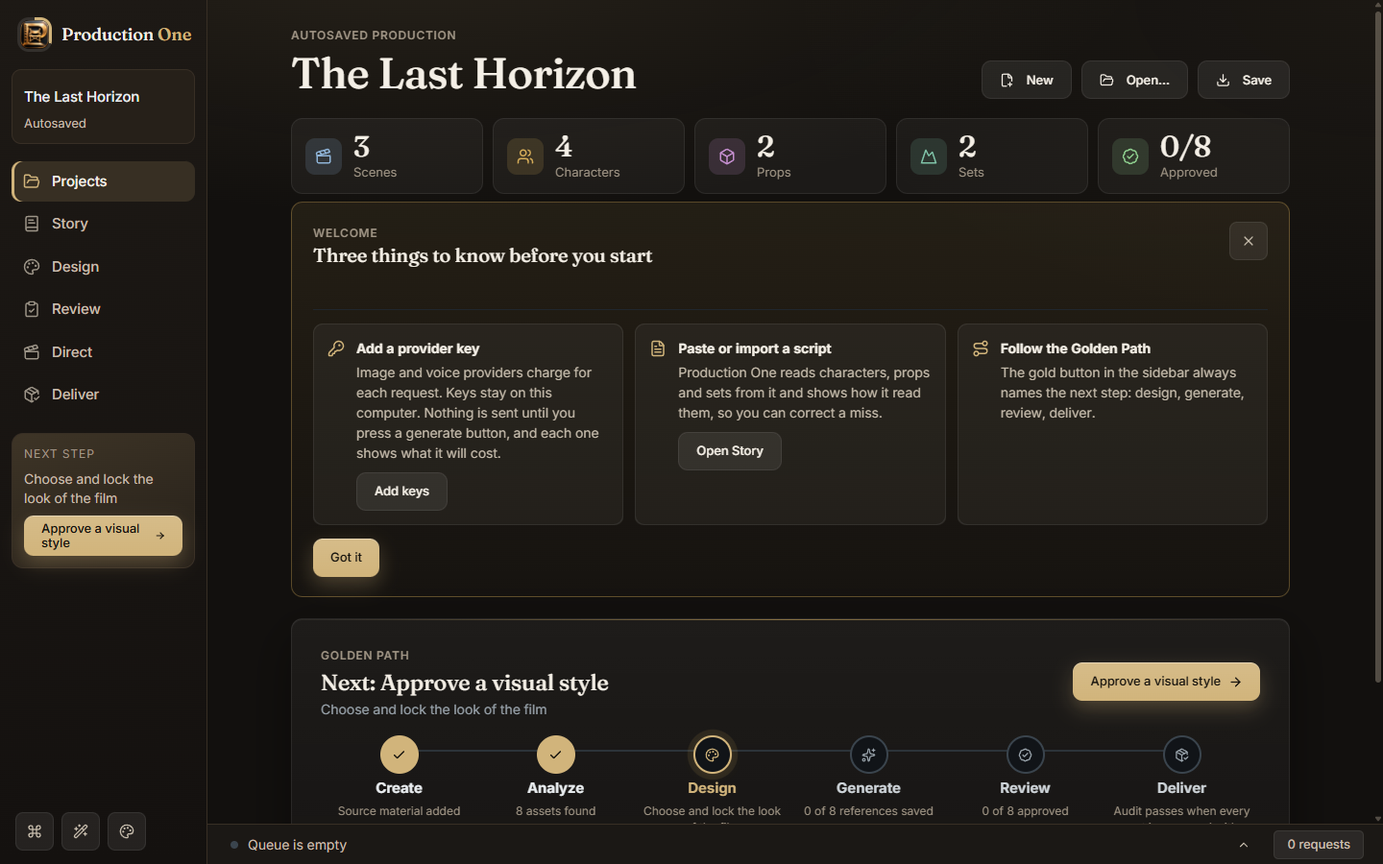
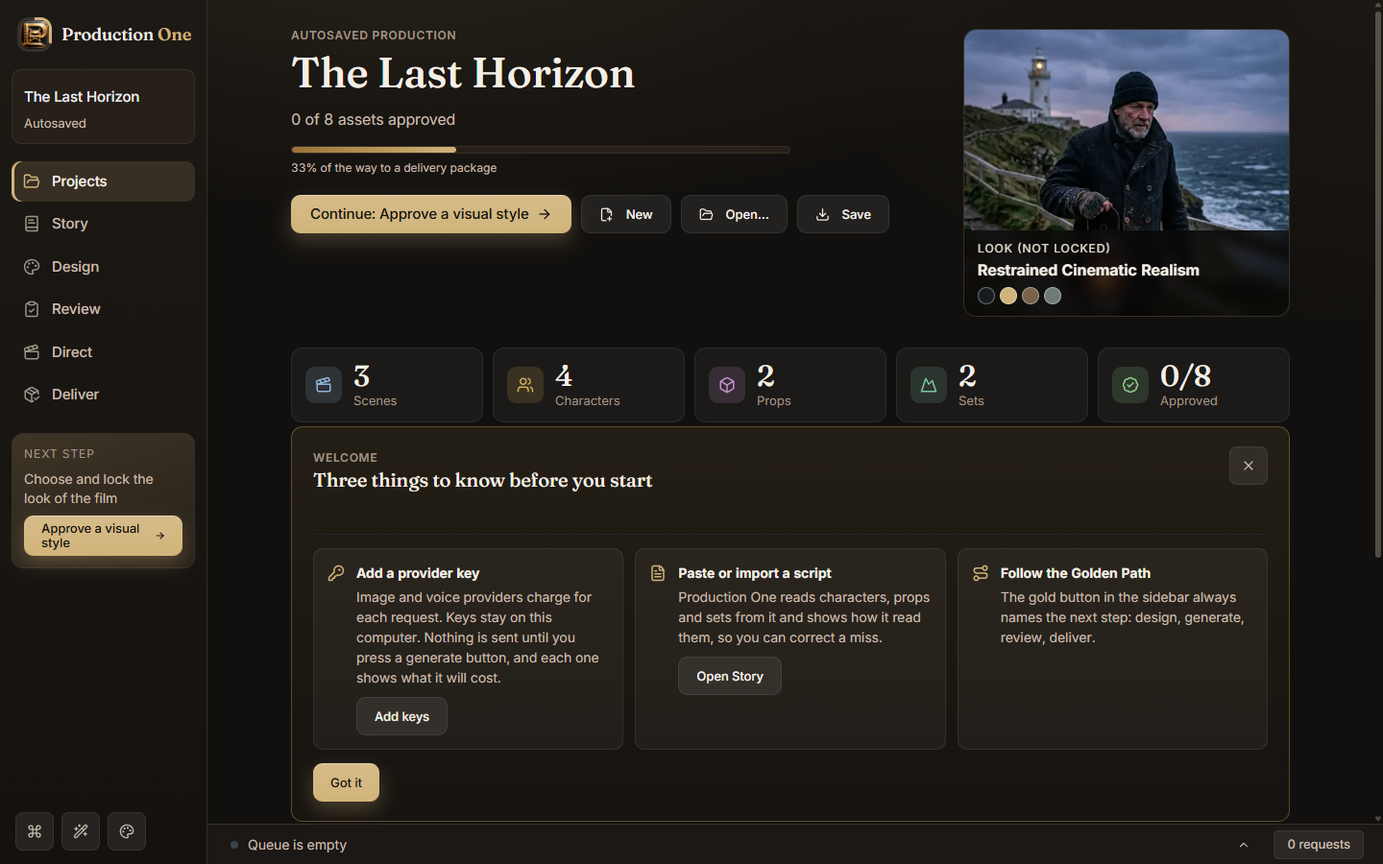
Projects home hero; handover note for continuing on another PC

diff --git a/src/components/ProjectHero.tsx b/src/components/ProjectHero.tsx
@@ -1,0 +1,54 @@
+import { ArrowRight, Download, FilePlus2, FolderOpen } from "lucide-react";
+import { StatTiles } from "./StatTiles";
+import type { GoldenPathInput, GoldenStep } from "../domain/goldenPath";
+import { heroSummary } from "../domain/projectHero";
+import { thumbFor } from "../domain/styleGallery";
+import type { StyleBible } from "../domain/visualDevelopment";
+
+interface Counts { scenes: number; characters: number; props: number; sets: number }
+
+/** The top of the Projects home: the title, how far along the production is, one big button for what to do next, and the look of the film as a picture. */
+export function ProjectHero({ title, filePath, style, golden, counts, onNew, onOpen, onSave, onContinue, onWorkspace }: {
+  title: string;
+  filePath: string | null | undefined;
+  style: StyleBible;
+  golden: GoldenPathInput;
+  counts: Counts;
+  onNew: () => void;
+  onOpen: () => void;
+  onSave: () => void;
+  onContinue: (step: GoldenStep) => void;
+  onWorkspace: (name: string) => void;
+}) {
+  const { percent, next, button, status } = heroSummary(golden);
+  const picture = style.locked || style.name ? thumbFor(style) : null;
+  const palette = style.palette.length ? style.palette : ["#1b1815", "#d1b47b"];
+  return (
+    <div className="ph" role="group" aria-label="Project">
+      <div className="ph-main">
+        <span className="eyebrow">{filePath ?? "AUTOSAVED PRODUCTION"}</span>
+        <h2>{title}</h2>
+        <p className="ph-status">{status}</p>
+        <div className="ph-bar" role="progressbar" aria-valuemin={0} aria-valuemax={100} aria-valuenow={percent} aria-label="Production progress">
+          <span style={{ width: `${percent}%` }} />
+        </div>
+        <small className="ph-percent">{percent}% of the way to a delivery package</small>
+        <div className="ph-actions">
+          <button className="primary ph-go" onClick={() => (next ? onContinue(next) : onWorkspace("Deliver"))}>{button} <ArrowRight size={16} aria-hidden="true" /></button>
+          <button className="secondary" onClick={onNew}><FilePlus2 size={15} /> New</button>
+          <button className="secondary" onClick={onOpen}><FolderOpen size={15} /> Open…</button>
+          <button className="secondary" onClick={onSave}><Download size={15} /> Save</button>
+        </div>
+      </div>
+      <figure className="ph-look">
+        {picture ? <img src={picture} alt={`${style.name}: the same scene in this look`} /> : <div className="ph-swatch" style={{ background: `linear-gradient(135deg, ${palette.join(", ")})` }} role="img" aria-label="Palette of the visual style" />}
+        <figcaption>
+          <small>{style.locked ? "LOCKED LOOK" : "LOOK (NOT LOCKED)"}</small>
+          <b>{style.name || "No style chosen"}</b>
+          <span className="ph-palette" aria-hidden="true">{palette.slice(0, 5).map((c) => <i key={c} style={{ background: c }} />)}</span>
+        </figcaption>
+      </figure>
+      <StatTiles scenes={counts.scenes} characters={counts.characters} props={counts.props} sets={counts.sets} approved={golden.approvedCount} total={golden.assetCount} />
+    </div>
+  );
+}

diff --git a/src/components/ProjectHero.test.tsx b/src/components/ProjectHero.test.tsx
@@ -1,0 +1,40 @@
+import { describe, expect, it, vi } from 'vitest'
+import { fireEvent, render, screen } from '@testing-library/react'
+import { ProjectHero } from './ProjectHero'
+import type { GoldenPathInput } from '../domain/goldenPath'
+import type { StyleBible } from '../domain/visualDevelopment'
+
+const golden: GoldenPathInput = { hasScript: true, assetCount: 8, styleLocked: false, outputsCount: 0, approvedCount: 0, jobsActive: 0, storyboards: false, shotCount: 0, ready: false }
+const style: StyleBible = { name: 'Restrained Cinematic Realism', description: '', palette: ['#111111', '#d1b47b'], materials: '', rendering: '', lighting: '', locked: false, revision: 1 }
+const counts = { scenes: 3, characters: 4, props: 2, sets: 2 }
+const handlers = () => ({ onNew: vi.fn(), onOpen: vi.fn(), onSave: vi.fn(), onContinue: vi.fn(), onWorkspace: vi.fn() })
+
+describe('ProjectHero', () => {
+  it('shows the title, status and progress, and continues to the next step', () => {
+    const h = handlers()
+    render(<ProjectHero title="The Last Horizon" filePath={null} style={style} golden={golden} counts={counts} {...h} />)
+    expect(screen.getByRole('heading', { name: 'The Last Horizon' })).toBeTruthy()
+    expect(screen.getByText('0 of 8 assets approved')).toBeTruthy()
+    expect(screen.getByRole('progressbar', { name: 'Production progress' }).getAttribute('aria-valuenow')).toMatch(/^\d+$/)
+    fireEvent.click(screen.getByRole('button', { name: /Continue: Approve a visual style/ }))
+    expect(h.onContinue).toHaveBeenCalledTimes(1)
+    expect(h.onContinue.mock.calls[0][0].workspace).toBe('Design')
+  })
+  it('opens Deliver when every step is done', () => {
+    const h = handlers()
+    render(<ProjectHero title="T" filePath="C:/x.pone" style={{ ...style, locked: true }} golden={{ ...golden, styleLocked: true, outputsCount: 8, approvedCount: 8, ready: true }} counts={counts} {...h} />)
+    expect(screen.getByText('LOCKED LOOK')).toBeTruthy()
+    fireEvent.click(screen.getByRole('button', { name: /Open Deliver/ }))
+    expect(h.onWorkspace).toHaveBeenCalledWith('Deliver')
+  })
+  it('keeps New, Open and Save', () => {
+    const h = handlers()
+    render(<ProjectHero title="T" filePath={null} style={style} golden={golden} counts={counts} {...h} />)
+    for (const n of [/New/, /Open…/, /Save/]) fireEvent.click(screen.getByRole('button', { name: n }))
+    expect(h.onNew).toHaveBeenCalled(); expect(h.onOpen).toHaveBeenCalled(); expect(h.onSave).toHaveBeenCalled()
+  })
+  it('falls back to the palette when the style has no picture', () => {
+    render(<ProjectHero title="T" filePath={null} style={{ ...style, name: 'My own style', family: undefined }} golden={golden} counts={counts} {...handlers()} />)
+    expect(screen.getByRole('img', { name: 'Palette of the visual style' })).toBeTruthy()
+  })
+})

diff --git a/src/looks.css b/src/looks.css
@@ -166,3 +166,28 @@
 :root:not([data-look="studio"]) .asset-browser button.selected { background: color-mix(in srgb, var(--gold-2) 10%, var(--panel-2)); border-color: color-mix(in srgb, var(--gold-2) 45%, var(--line-1)); color: var(--text); }
 /* Light theme: the "Not generated" tile sits on a grey wash over a dark thumbnail, so its label needs the full text colour. */
 :root[data-theme="light"] .thumb-empty, :root[data-theme="light"] .thumb-empty span { color: var(--text); }
+
+/* Projects home: the hero. */
+.ph { display: grid; grid-template-columns: minmax(0, 1fr) minmax(240px, 340px); gap: 18px 28px; align-items: stretch; margin-bottom: 4px; }
+.ph-main { display: flex; flex-direction: column; gap: 6px; min-width: 0; }
+.ph-main h2 { margin: 2px 0 0; font-size: clamp(30px, 3.2vw, 44px); line-height: 1.08; }
+.ph-status { margin: 6px 0 0; font-size: 16px; color: var(--text-2); }
+.ph-bar { height: 8px; border-radius: 999px; background: var(--panel-2); border: 1px solid var(--line-1); overflow: hidden; margin-top: 10px; max-width: 520px; }
+.ph-bar span { display: block; height: 100%; border-radius: 999px; background: linear-gradient(90deg, var(--gold-deep), var(--gold-2)); min-width: 6px; transition: width .4s ease; }
+.ph-percent { color: var(--text-2); font-size: 13px; }
+.ph-actions { display: flex; flex-wrap: wrap; gap: 10px; align-items: center; margin-top: 14px; }
+.ph-go { padding: 12px 20px; font-size: 15px; }
+.ph-look { margin: 0; border-radius: 14px; overflow: hidden; border: 1px solid var(--line-1); background: var(--panel-1); position: relative; min-height: 190px; display: grid; }
+.ph-look img, .ph-swatch { width: 100%; height: 100%; object-fit: cover; display: block; grid-area: 1 / 1; min-height: 190px; }
+.ph-look figcaption { grid-area: 1 / 1; align-self: end; padding: 10px 14px 12px; display: grid; gap: 2px; background: rgba(8, 7, 6, .78); backdrop-filter: blur(6px); color: #f4efe6; }
+.ph-look figcaption small { font-size: 12px; letter-spacing: .08em; color: #d9d2c4; }
+.ph-look figcaption b { font-size: 16px; }
+.ph-palette { display: flex; gap: 5px; margin-top: 4px; }
+.ph-palette i { width: 18px; height: 18px; border-radius: 50%; border: 1px solid rgba(255, 255, 255, .35); }
+.ph > .stat-tiles { grid-column: 1 / -1; }
+@media (max-width: 1100px) { .ph { grid-template-columns: minmax(0, 1fr); } .ph-look { min-height: 150px; } .ph-look img, .ph-swatch { min-height: 150px; } }
+.ph .ph-look figcaption small, :root[data-theme="light"] .ph .ph-look figcaption small { color: #e6dfd1; }
+.ph .ph-look figcaption b, :root[data-theme="light"] .ph .ph-look figcaption b { color: #f4efe6; }
+.ph-look { max-height: 300px; }
+.ph-look img { object-position: 50% 25%; }
+@media (max-width: 1100px) { .ph-look { max-height: 190px; } }

diff --git a/src/views/ProjectsView.tsx b/src/views/ProjectsView.tsx
@@ -1,11 +1,12 @@
-import { Download, FilePlus2, FolderOpen, History, X } from "lucide-react";
+import { History, X } from "lucide-react";
 import { recentName } from "../appHelpers";
 import { Eyebrow } from "../components/Eyebrow";
 import { FirstRun } from "../components/FirstRun";
 import { GoldenPath } from "../components/GoldenPath";
-import { StatTiles } from "../components/StatTiles";
+import { ProjectHero } from "../components/ProjectHero";
 import type { GoldenPathInput, GoldenStep } from "../domain/goldenPath";
 import type { AnalysisResult } from "../domain/productionStudio";
+import type { StyleBible } from "../domain/visualDevelopment";
 
 /** The Projects workspace: project header, getting started, Golden Path and recent files. */
 export function ProjectsView(props: {
@@ -13,6 +14,7 @@ export function ProjectsView(props: {
   filePath: string | null | undefined;
   analysis: AnalysisResult;
   golden: GoldenPathInput;
+  style: StyleBible;
   recents: string[];
   onNew: () => void;
   onOpen: () => void;
@@ -29,18 +31,7 @@ export function ProjectsView(props: {
   const count = (...types: string[]) => analysis.assets.filter((a) => types.includes(a.type)).length;
   return (
     <section className="po-launch">
-      <div className="po-launch-head">
-        <div>
-          <span className="eyebrow">{filePath ?? "AUTOSAVED PRODUCTION"}</span>
-          <h2>{title}</h2>
-          <StatTiles scenes={analysis.scenes.length} characters={count("character")} props={count("prop")} sets={count("set", "environment")} approved={golden.approvedCount} total={golden.assetCount} />
-        </div>
-        <div className="hero-actions">
-          <button className="secondary" onClick={props.onNew}><FilePlus2 size={15} /> New</button>
-          <button className="secondary" onClick={props.onOpen}><FolderOpen size={15} /> Open…</button>
-          <button className="secondary" onClick={props.onSave}><Download size={15} /> Save</button>
-        </div>
-      </div>
+      <ProjectHero title={title} filePath={filePath} style={props.style} golden={golden} counts={{ scenes: analysis.scenes.length, characters: count("character"), props: count("prop"), sets: count("set", "environment") }} onNew={props.onNew} onOpen={props.onOpen} onSave={props.onSave} onContinue={props.onNext} onWorkspace={props.onWorkspace} />
       <FirstRun onKeys={props.onKeys} onStory={() => props.onWorkspace("Story")} />
       <GoldenPath input={golden} onGo={props.onWorkspace} onNext={props.onNext} />
       {recents.length > 0 && (

diff --git a/src/domain/projectHero.test.ts b/src/domain/projectHero.test.ts
@@ -1,0 +1,35 @@
+import { describe, expect, it } from 'vitest'
+import { heroSummary } from './projectHero'
+import type { GoldenPathInput } from './goldenPath'
+
+const base: GoldenPathInput = { hasScript: true, assetCount: 8, styleLocked: false, outputsCount: 0, approvedCount: 0, jobsActive: 0, storyboards: false, shotCount: 0, ready: false }
+
+describe('heroSummary', () => {
+  it('asks for a script first', () => {
+    const h = heroSummary({ ...base, hasScript: false, assetCount: 0 })
+    expect(h.button).toBe('Add your script')
+    expect(h.status).toMatch(/no script yet/i)
+  })
+  it('names the next step on the button and counts approvals in the status', () => {
+    const h = heroSummary({ ...base, approvedCount: 3 })
+    expect(h.button).toBe('Continue: Approve a visual style')
+    expect(h.status).toBe('3 of 8 assets approved')
+    expect(h.next?.workspace).toBe('Design')
+  })
+  it('mentions running requests', () => {
+    expect(heroSummary({ ...base, styleLocked: true, jobsActive: 1 }).status).toBe('0 of 8 assets approved · 1 request running')
+    expect(heroSummary({ ...base, styleLocked: true, jobsActive: 3 }).status).toContain('3 requests running')
+  })
+  it('reaches 100 percent and points at Deliver when everything is done', () => {
+    const h = heroSummary({ ...base, styleLocked: true, outputsCount: 8, approvedCount: 8, ready: true })
+    expect(h.percent).toBe(100)
+    expect(h.next).toBeNull()
+    expect(h.button).toBe('Open Deliver')
+  })
+  it('keeps the percent within 0 to 100 and grows with progress', () => {
+    const a = heroSummary(base).percent, b = heroSummary({ ...base, styleLocked: true, outputsCount: 8 }).percent
+    expect(a).toBeGreaterThanOrEqual(0)
+    expect(b).toBeGreaterThan(a)
+    expect(b).toBeLessThanOrEqual(100)
+  })
+})

diff --git a/src/App.tsx b/src/App.tsx
@@ -1303,7 +1303,7 @@ export default function App() {
           </div>
         )}
         {workspace === "Projects" && (
-          <ProjectsView title={title} filePath={filePath} analysis={analysis} golden={goldenInput} recents={recents} onNew={() => guard(() => void newProject())} onOpen={() => guard(() => void openProject())} onSave={() => void saveProject()} onOpenRecent={(path) => guard(() => void openPath(path))} onForgetRecent={(path) => void forgetRecent(path)} onClearRecents={() => void clearRecents()} onKeys={() => setProvidersOpen(true)} onWorkspace={setWorkspace} onNext={goNext} />
+          <ProjectsView title={title} filePath={filePath} analysis={analysis} golden={goldenInput} style={styleBible} recents={recents} onNew={() => guard(() => void newProject())} onOpen={() => guard(() => void openProject())} onSave={() => void saveProject()} onOpenRecent={(path) => guard(() => void openPath(path))} onForgetRecent={(path) => void forgetRecent(path)} onClearRecents={() => void clearRecents()} onKeys={() => setProvidersOpen(true)} onWorkspace={setWorkspace} onNext={goNext} />
         )}
         {workspace === "Story" && (
           <StoryView script={script} setScript={setScript} scriptArea={scriptArea} analysis={analysis} setAnalysis={setAnalysis} desktop={isTauri} notify={setNotice} onImport={() => void importScriptNative()} onAnalyze={analyze} onJump={jumpToLine} onAddProp={addNamedProp} onUseAge={useAgeFromReading} onAddAsset={addManualAsset} outputs={assetOutputs} onOpenAsset={(id) => { const i = analysis.assets.findIndex((x) => x.id === id); if (i >= 0) setSelectedAsset(i); setWorkspace("Design"); }} />

diff --git a/src/domain/projectHero.ts b/src/domain/projectHero.ts
@@ -1,0 +1,23 @@
+import { goldenPath, type GoldenPathInput, type GoldenStep } from './goldenPath'
+
+export interface HeroSummary {
+  /** 0 to 100, from the Golden Path. */
+  percent: number
+  /** The step the one big button takes you to; null when every step is done. */
+  next: GoldenStep | null
+  /** What the button says. */
+  button: string
+  /** One line under the title: where the production stands, in words. */
+  status: string
+}
+
+/** The Projects home at a glance: how far along the production is and what to do next. Uses only what the project already knows. */
+export function heroSummary(input: GoldenPathInput): HeroSummary {
+  const { next, progress } = goldenPath(input)
+  const percent = Math.max(0, Math.min(100, Math.round(progress)))
+  if (!input.hasScript) return { percent, next, button: next?.action ?? 'Open Story', status: 'No script yet. Paste or import one to begin.' }
+  if (!next) return { percent: 100, next, button: 'Open Deliver', status: 'Every step is done. The package is ready to export.' }
+  const approved = `${input.approvedCount} of ${input.assetCount} assets approved`
+  const active = input.jobsActive > 0 ? ` · ${input.jobsActive} ${input.jobsActive === 1 ? 'request' : 'requests'} running` : ''
+  return { percent, next, button: `Continue: ${next.action}`, status: `${approved}${active}` }
+}

diff --git a/HANDOVER_FOR_CLAUDE.md b/HANDOVER_FOR_CLAUDE.md
@@ -1,5 +1,60 @@
 # Production One handover (START HERE)
 
+## Session handover, 2026-11-15 (read this first; the older notes below are history)
+
+**State.** Released: **v0.39.0** (tag on `main`; Windows setup.exe, MSI and portable zip on the GitHub release). The branch `ui/projects-hero` (and its pull request) holds the **Projects home hero**: built and tested, **not merged, not released**, no version bump yet. Releases in this stretch, newest first: 0.39.0 older screens follow the looks and a Cinematic light-sidebar fix; 0.38.1 failure groups read real status codes; 0.38.0 cast board on small windows and light-theme contrast; 0.37.0 cast board; 0.36.0 Cinematic default; 0.35.0 three looks (Studio, Cinematic, Futurist); 0.34.0 failure groups and Tasks; 0.33.0 Script and Asset Studio layouts and Space Grotesk; 0.32.0 sidebar redesign and a style gallery with 117 pictures; 0.31.0 Suno music via Kie.ai; 0.30.0 voice design. Per-release detail: `CHANGELOG.md`, `RELEASE_NOTES_<v>.md`, `docs/QA_REPORT_<v>.md`.
+
+**What the app is.** A Tauri 2 + React 19 + TypeScript + Rust Windows desktop app that turns a script into reference assets (characters, props, sets), voices and music, then a delivery package. Repo: https://github.com/Olusegune/productionOne (private).
+
+### Set up on a new PC
+1. Install Git, Node 20 or newer, Rust (stable, MSVC toolchain) with the Windows C++ build tools, WebView2 (ships with Windows 11) and `gh` (logged in as the repo owner). Optional: Chrome (used for screenshots) and Ollama with `qwen2.5vl:7b` (local helper features).
+2. `git clone https://github.com/Olusegune/productionOne`, then `npm ci`.
+3. Dev UI: `npx vite` (port 5173). It runs the demo project "The Last Horizon" in a browser. Image and voice generation only run in the Windows app; the browser shows the plan.
+4. The gate (all must pass before a release): `npx tsc -b` (**this is the real type check**; `tsc --noEmit -p .` checks nothing), `npx vitest run` (442 JS tests with the hero), `cd src-tauri && cargo test` (78), `cargo clippy --all-targets -- -D warnings`, `cargo audit`, `npm audit`, `rafter secrets .`.
+5. Installers: set `CARGO_TARGET_DIR` to a folder outside the repo, then `npx tauri build`. Outputs: `<target>/release/bundle/nsis` and `msi`; the portable exe is `<target>/release/ProductionOne.exe`.
+
+### Things that are NOT in git (they do not travel)
+- **API keys** (Kie.ai, ElevenLabs, VoiceKiller, OpenAI, Google, fal, OpenRouter) live in Windows Credential Manager on the old PC. On a new PC the owner enters them in the app (Providers). Never type, read or log keys.
+- **The owner's projects and art.** The real project's Midjourney-derived character art must never be committed. Docs screenshots come from the art-free demo project only.
+- **Installers** (`Desktop\ProductionOne-Release-<v>` on the old PC, with SHA256.txt): rebuild, or download from the GitHub release.
+- **Claude's memory files** are local to the old PC; the useful content is in this note.
+- **Remote Rafter scan** (`rafter run`): unavailable (plan quota used up). `rafter secrets .` works offline.
+
+### The release routine (the owner says "Merge and release")
+Branch, then bump the version in 6 files: `package.json`, `package-lock.json` (2 places), `src-tauri/tauri.conf.json`, `src-tauri/Cargo.toml`, `src-tauri/Cargo.lock` (the `production-guy` entry) and `public/splash.html`. Then: CHANGELOG (turn "## Unreleased" into the version heading), `RELEASE_NOTES_<v>.md`, `docs/QA_REPORT_<v>.md`, docs counts (`docs/TESTING.md`, `PROJECT_STATE.md`, `README.md`, `docs/PRODUCTION_ONE_PLAN.md`), the gate, `npx tauri build`, a packaged check, push and PR, wait for CI (`gh pr checks N --watch`; the Rust job takes about 4 minutes), `gh pr merge N --merge`, then `gh release create vX --target main --notes-file RELEASE_NOTES_X.md <setup.exe> <msi> <portable.zip>`, and copy the files plus a SHA256.txt to a Desktop release folder. Merge and release only when the owner asks.
+
+### Interface QA
+`scripts/qa/in-page-audit.js`: load it in the page, then `await window.__audit(['Projects','Story','Design','Review','Direct','Deliver'])`. It checks overflow, text under 12 px, WCAG contrast (it understands `color-mix()` and gradient backgrounds, and turns transitions off while measuring) and small targets. Run it for all three looks and both themes (`document.documentElement.dataset.look` = studio, cinematic or futurist; `.dataset.theme` = dark or light). Every release was audited clean. It cannot see text over photos.
+
+### Packaged-app check on the owner's real project (old PC only)
+Launching the packaged app replaces the owner's autosave. The ritual: launch `ProductionOne.exe` with the environment variable `WEBVIEW2_ADDITIONAL_BROWSER_ARGUMENTS=--remote-debugging-port=9222` and drive it over the Chrome DevTools protocol. Afterwards restart it with the backup `.pone` file as its argument, confirm "0 queued, 0 running, 8 to review, 55 done", then put `recent-projects.json` (in `%APPDATA%\com.productionguy.studio`) back. A new PC has no real project: use the demo.
+
+### Architecture pointers
+- **Looks:** the `data-look` attribute on `<html>`; tokens and per-look rules live in `src/looks.css` (loaded last, so it wins ties); also `src/domain/appearance.ts`, `src/data/appearance.ts` and `src/components/AppearanceMenu.tsx`. Cinematic is the default; a look is stored only when chosen (`po.look.v2`). The older stylesheets (`polish.css`, `studio.css`, `shell-v2.css` and others) still hold fixed colours. New work should use the tokens: `--bg --panel-1 --panel-2 --line-1 --text --text-2 --gold --gold-2 --gold-deep`.
+- **Screens:** `src/views/*` and `src/components/*`; pure, tested logic in `src/domain/*` (for example `castBoard.ts`, `failureGroups.ts`, `taskList.ts`, `review.ts`, `projectHero.ts`, `goldenPath.ts`, `styleGallery.ts`).
+- **Rust commands:** `src-tauri/src/` (`kie.rs`, `suno.rs`, `voice_cloud.rs`, `local.rs` and others). The content-security policy is strict (fonts from the app itself only).
+- **Live provider checks that worked (2026-11-15):** Suno vocals, V6 and V6 Wild; ElevenLabs sound effects and voice design; the Qwen description helper through Ollama; Kie image generation.
+
+### Open items (none urgent)
+1. **Merge and release the Projects hero** (branch `ui/projects-hero`): `src/components/ProjectHero.tsx`, `src/domain/projectHero.ts`, the CSS at the end of `src/looks.css`, and the new `docs/screenshots/projects.png`. Suggested version 0.40.0.
+2. Revision compare on Review (two takes side by side, keep one).
+3. Batch voice and music (several characters or scenes, with a cost estimate first).
+4. A text size setting in Appearance.
+5. The guide's sheet, audition and queue screenshots still show the old top bar. They need generated pictures and a busy queue; keep the art-free rule.
+6. Code signing (Windows SmartScreen warns on every install; it needs a certificate).
+7. Not yet checked: the Local AI and help dialogs in the new looks, and a real failed image generation in the UI (failure groups are covered by tests and real provider error strings).
+
+### Working with the owner
+- Replies are short and decisive ("Do 1 to 3", "Merge and release"). Do the work, then report plainly what was and was not checked.
+- The provider spend budget the owner set was 5 USD; live checks are small. Ask before anything larger.
+- Never enter or read credentials; never kill or touch the owner's running app; docs screenshots from the demo project only.
+- Update the documentation, the QA report and the unit tests with every release.
+- Tool gotchas: the bash tool mis-parses some heredocs with apostrophes or backslashes (write files with the editor tool); `\b` inside a Python string becomes a backspace character (use raw strings or the editor); repo files use CRLF (open with `newline=''` when rewriting).
+
+---
+
+## Earlier notes (history; the build steps and paths below may be out of date)
+
 **Update 2026-11-14 (release 0.39.0).** `main` carries everything from 0.21 to 0.39.0 (the work branch `ui/0.21-polish` was merged in PR #1 and deleted) (UI polish, image-first characters, per-sheet Shape and Backdrop, sheet export, backups, casting lines, personality and Never fields, a full systems and stress run, and a design refresh). Read `CHANGELOG.md` from the top, `docs/QA_REPORT_0.29.0.md`, `docs/DESIGN.md` and `docs/USER_GUIDE.md`. Test counts at 0.29.2: 296 JS, 73 Rust. Run the release gate in `docs/TESTING.md` before every release (it caught 7 dependency advisories, a missing content-security policy and two unconfined path commands at 0.29.2). `src/versionSync.test.ts` fails when the version differs between files, so bump them together (package.json, package-lock.json twice, tauri.conf.json, Cargo.toml, Cargo.lock, public/splash.html, CHANGELOG.md, RELEASE_NOTES_<version>.md). A live test of the packaged app replaces the autosave of the owner's session (the app backs it up to `Documents\Production One\Backups` first). The text below was written at 0.20.0.
 
 Written 2026-11-12 at release 0.20.0. Older notes are kept unchanged under "Earlier notes" at the bottom.

diff --git a/CHANGELOG.md b/CHANGELOG.md
@@ -1,5 +1,9 @@
 # Changelog
 
+## Unreleased
+- **Projects home hero.** The top of Projects is now a hero: the title, a line saying where the production stands ("3 of 8 assets approved · 1 request running"), a progress bar to a delivery package, one big button for the next step ("Continue: Approve a visual style", or "Open Deliver" when everything is done), New / Open / Save, and the look of the film as a picture (the style's own gallery picture, or its palette) with its name and colours. The five count tiles sit under it. Nothing new is stored or invented: it reads the Golden Path and the style.
+- Tests: 442 JS (5 for the summary, 4 for the hero component).
+
 ## 0.39.0 (2026-11-15): older screens follow the looks
 - **Older screens follow the looks.** The Providers dialog, its cards and fields, the prompt box and prompt editor, the style picker button, the model notes and the cost pop-up were written with fixed graphite colours; in Cinematic and Futurist they now take the look's own surfaces (Studio keeps its colours).
 - **Cinematic, light theme: the sidebar.** The dark gradient meant for the dark theme also applied in the light theme, so the logo and the navigation labels were dark on dark (about 1.5 to 2:1). The light theme now has a light sidebar. The in-page audit missed this because it ignored gradient backgrounds; it now averages a gradient's colours, and it also caught the grey "Not generated" label (3.7:1), now darker in the light theme.

diff --git a/docs/USER_GUIDE.md b/docs/USER_GUIDE.md
@@ -6,6 +6,8 @@ The **sidebar** on the left holds the project name and its save state, the works
 
 ![Projects overview with the Golden Path](screenshots/projects.png)
 
+The top of Projects shows where the production stands: a progress bar, one big **Continue** button for the next step, and the look of the film as a picture.
+
 ## Projects, files and backups
 - **New / Open / Save** are in the File menu and on Projects. Projects are `.pone` files. Old `.pguy` projects open and are saved as a new `.pone`, leaving the original untouched.
 - **Recent projects** on the Projects screen show file names only. Press **×** on an entry to remove it from the list, or **Clear list** to remove them all. This never deletes a project file.
